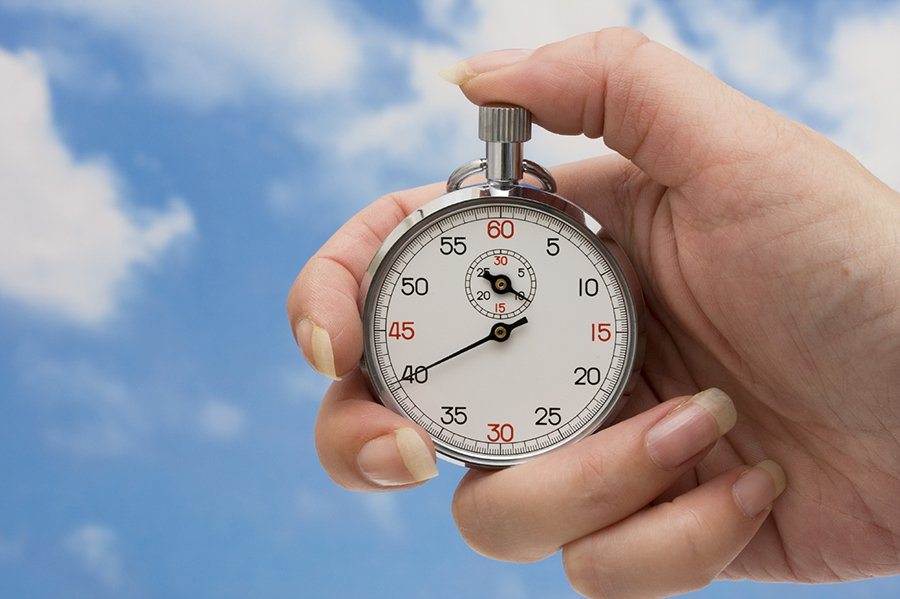
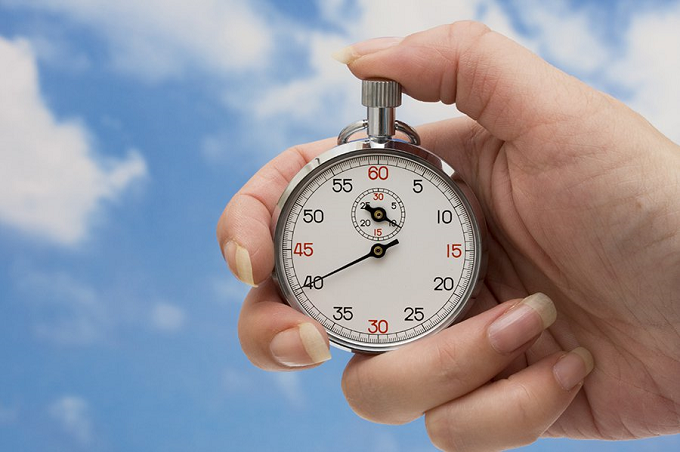
add animation border

diff --git a/src/sport.css b/src/sport.css
@@ -1,0 +1,102 @@
+
+.place {
+  position: relative;
+  height: 30vw;
+  grid-row-start: 1;
+}
+
+.box {
+position: absolute;
+top: 50%;
+left: 50%;
+transform: translate(-50%, -50%);
+width: 31vw;
+height: 31vw;
+box-sizing: border-box;
+overflow: hidden;
+color: white;
+padding: 20px;
+}
+
+.box:before{
+content: '';
+position:absolute;
+top:0;
+left:-100%;
+width:100%;
+height:100%;
+background: rgba(255,255,255,0.1);
+transition:0.5s;
+pointer-events: none;
+}
+
+.box span{
+position: absolute;
+top: 0;
+left: 0;
+width: 100%;
+height: 100%;
+display: block;
+box-sizing: border-box;
+
+}
+
+
+
+.box span:nth-child(1)
+{
+transform:rotate(0deg);
+}
+
+.box span:nth-child(2)
+{
+transform:rotate(90deg);
+}
+
+.box span:nth-child(3)
+{
+transform:rotate(180deg);
+}
+
+.box span:nth-child(4)
+{
+transform:rotate(270deg);
+}
+
+.box span:before
+{
+content: '';
+position: absolute;
+width:100%;
+height: 2px;
+background: silver;
+animation: animate 4s linear infinite;
+}
+
+
+@keyframes animate {
+  0% {
+  transform:scaleX(0);
+  transform-origin: left;
+  }
+  50%
+  {
+    transform:scaleX(1);
+  transform-origin: left;
+  }
+  50.1%
+  {
+    transform:scaleX(1);
+  transform-origin: right;
+    
+  }
+  
+  100%
+  {
+    transform:scaleX(0);
+  transform-origin: right;
+    
+  }
+  
+  
+} 

diff --git a/src/Sport.js b/src/Sport.js
@@ -1,14 +1,25 @@
 import React from 'react';
 import { Link } from 'react-router-dom';
+import './sport.css';
 export default function Sport(props) {
     return (
-        
-            <Link to={`/${props.id}`} className='item'>
-                <img src={props.picture} alt={`${props.name} + logo`} />
-                <div className='overlay'>
-                    <h1>{props.name}</h1>
-                </div>
-            </Link>
-        
+
+        <Link to={`/${props.id}`} className='item-content'>
+
+             
+            <div className='place'>            <div className="box">
+    <span></span>
+    <span></span>
+    <span></span>
+    <span></span>
+    <img src={props.picture} alt={`${props.name} + logo`} />
+  </div>
+  
+</div>
+            {/* <div className='overlay'>
+                <h1>{props.name}</h1>
+            </div> */}
+        </Link>
+
     );
 }

diff --git a/src/App.css b/src/App.css
@@ -1,30 +1,29 @@
-.App {
+/* .App {
   text-align: center;
 }
 a {
   text-decoration: none;
-}
+} */
 
 img {
   width: 100%;
   height: 100%;
 }
 .containter {
-  /* display: flex;
-  flex-wrap: wrap; */
+
   display: grid;
   grid-template-columns: repeat(auto-fit, minmax(150px, 1fr));
 }
-
-.item {
+.container {
+}
+.item-content {
   flex: 1;
-  padding: 30px;
-  border: 1px solid silver;
+  padding: 40px;
   position: relative;
   overflow: hidden;
 }
 
-.overlay {
+ /* .overlay {
   transition: bottom ease 1s;
   position: absolute;
   bottom: -100px;
@@ -32,13 +31,13 @@ img {
   width: 100%;
   background-color: green;
   opacity: 0.6;
-}
-
-.item:hover .overlay {
+} */
+/* 
+.item-content:hover .overlay {
   
   opacity: .6;
   bottom: 0;
-}
+} */
 
 
 

diff --git a/src/Details/Details.js b/src/Details/Details.js
@@ -27,7 +27,10 @@ export default class Details extends React.Component {
         } else {
             return (
                 <div className='Details'>
-
+                    <span></span>
+                    <span></span>
+                    <span></span>
+                    <span></span>
                     {this.state.sport.componentName}
 
                     <h1>{this.state.sport.name}</h1>

diff --git a/src/Menu/Menu.css b/src/Menu/Menu.css
@@ -1,12 +1,11 @@
 .menu {
-    display:flex;
-}
-.menu-item {
-    flex: 1;
+    display: grid;
+    grid-template-columns: 1fr 1fr;
 }
 
 .menu-item {
     padding: 0px 15px 0px 15px;
+    margin: 10px 0px 0px 0px;
 }
 
 .middle {
@@ -16,7 +15,8 @@
 }
 
 .menu-container {
-    display: flex;
+    display: grid;
+    grid-template-columns: 1fr 1fr 1fr;
 }
 
 .neon-text {

diff --git a/src/index.css b/src/index.css
@@ -1,4 +1,4 @@
-body {
+/* body {
   margin: 0;
   font-family: -apple-system, BlinkMacSystemFont, "Segoe UI", "Roboto", "Oxygen",
     "Ubuntu", "Cantarell", "Fira Sans", "Droid Sans", "Helvetica Neue",
@@ -10,4 +10,4 @@ body {
 code {
   font-family: source-code-pro, Menlo, Monaco, Consolas, "Courier New",
     monospace;
-}
+} */

diff --git a/src/Footer/Footer.css b/src/Footer/Footer.css
@@ -1,12 +1,14 @@
 .footer {
-    display: flex;
+    display: grid;
+    grid-template-columns: 50px 50px 50px;
+    justify-content: space-around;
 }
 
 .footer > .item {
-    flex: 1;
+    margin: 10px 0px 0px 0px;
 }
 .footer a  {
-    display: flex;
+    display: block;
     width: 48px;
     height: 48px;
 }

diff --git a/src/neonText/NeonText.css b/src/neonText/NeonText.css
@@ -1,4 +1,4 @@
-  .neonText {
+  /* .neonText {
     width: 120px;
     height: 120px;
   }
@@ -259,4 +259,4 @@
   .pixel:nth-child(208) {
     animation: lightFour 5s infinite;
     background: red;
-  }
+  } */

diff --git a/src/Details/Details.css b/src/Details/Details.css
@@ -1,4 +1,4 @@
-.Details .content {
+/* .Details .content {
     display: flex;
 }
 
@@ -18,4 +18,4 @@
     .Details .content {
         flex-direction: column;
     }
-}
+} */

diff --git a/src/newStyles.css b/src/newStyles.css
@@ -1,4 +1,4 @@
-* {
+/* * {
     margin: 0;
     padding: 0;
     box-sizing: border-box;
@@ -12,4 +12,4 @@ img {
 
 ul {
     list-style-type: none;
-  }
+  } */

diff --git a/src/stopwatch/App.css b/src/stopwatch/App.css
@@ -1,4 +1,4 @@
-.App {
+/* .App {
   text-align: center;
 }
 
@@ -27,4 +27,4 @@ ul {
 
 .elapsedString {
   font-family: monospace;
-}
+} */
